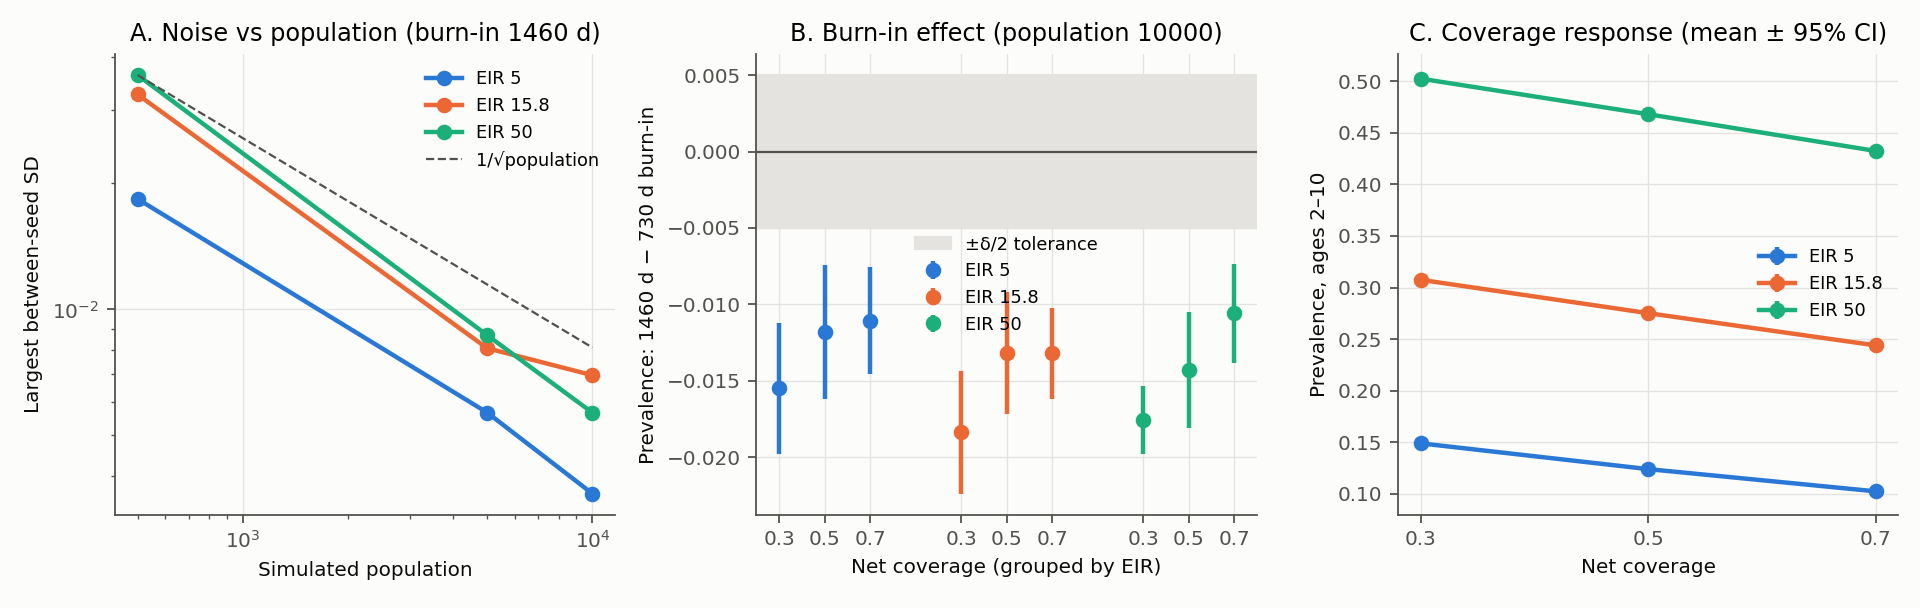
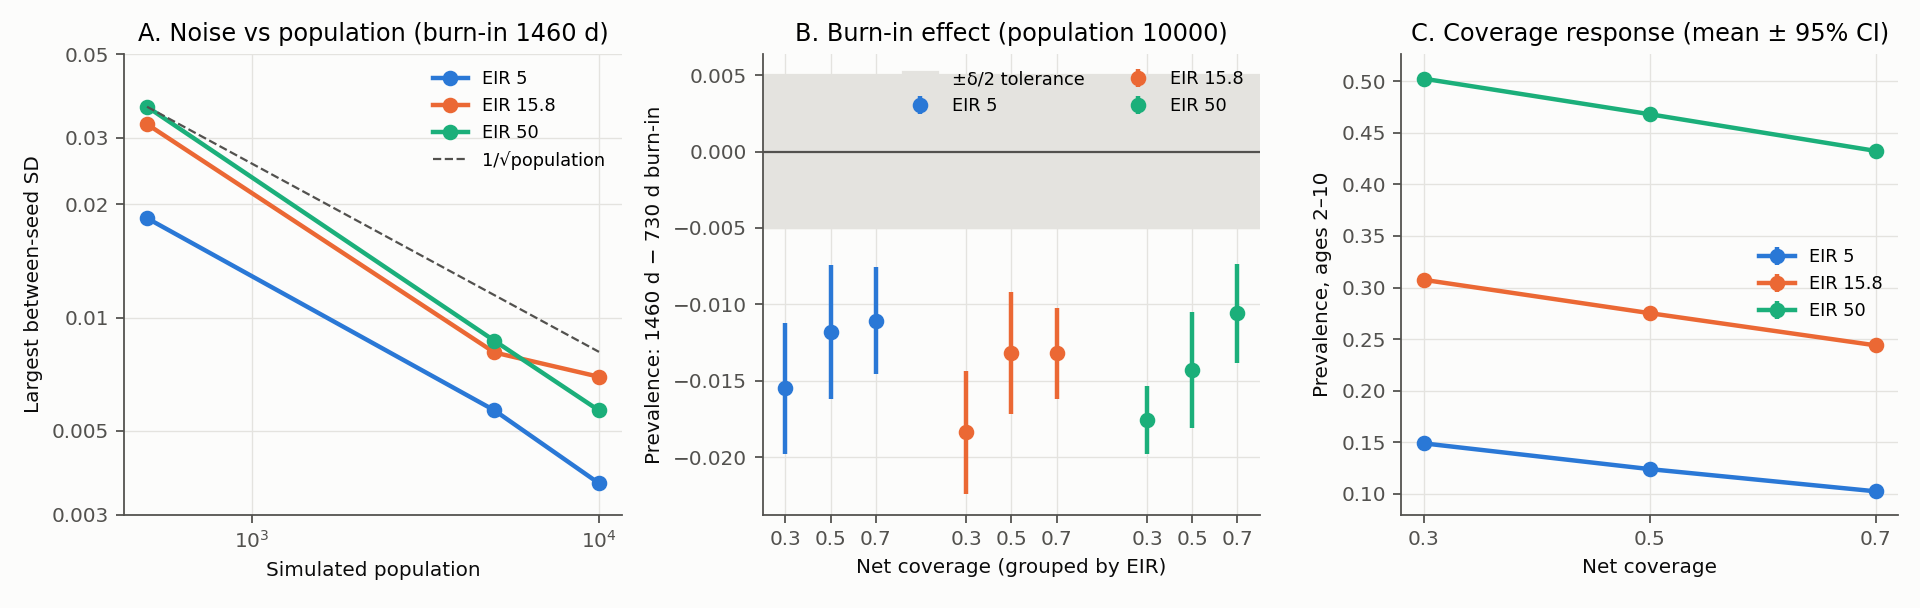
Pilot figure: readable log axis and legend placement; M2 status

diff --git a/pilot_analysis.py b/pilot_analysis.py
@@ -148,6 +148,9 @@ def figure(data, sds, candidates, chosen, path):
     ax.plot(pops, ref, "--", color=muted, lw=1, label="1/√population")
     ax.set(xscale="log", yscale="log", xlabel="Simulated population",
            ylabel="Largest between-seed SD", title=f"A. Noise vs population (burn-in {burn} d)")
+    ticks = [.003, .005, .01, .02, .03, .05]
+    ax.set_yticks(ticks, [f"{t:g}" for t in ticks])
+    ax.minorticks_off()
     ax.legend(frameon=False, fontsize=8)
 
     ax = axs[1]
@@ -165,7 +168,7 @@ def figure(data, sds, candidates, chosen, path):
     ax.set(xlabel="Net coverage (grouped by EIR)",
            ylabel=f"Prevalence: {long_} d − {short} d burn-in",
            title=f"B. Burn-in effect (population {chosen['population']})")
-    ax.legend(frameon=False, fontsize=8)
+    ax.legend(frameon=False, fontsize=8, loc="upper right", ncol=2)
 
     ax = axs[2]
     d = sds[(sds.population == chosen["population"]) & (sds.burn_days == burn)]

diff --git a/docs/PLAN.md b/docs/PLAN.md
@@ -10,7 +10,7 @@ Status key: ⬜ not started · 🟨 in progress · ✅ done · ⛔ blocked
 | # | Week (starts) | Milestone | Deliverables | Gate: done when | Status |
 |---|---|---|---|---|---|
 | M1 | 1 (16 Nov) | Model identity and design | Version record, scenario manifest, seed plan, fixed net scenario, reproducible R runner | Every run reproducible from the archive. Training, tuning and audit seeds disjoint. Same seed gives identical output. | ✅ 16 Nov |
-| M2 | 2 (23 Nov) | Pilot *(go/no-go)* | Runtime at 500/5000/10000 people. Burn-in 730 days vs 1460. Between-seed SD. Curvature of the coverage response. Normality check of replicate means. | Budget ≤ 100 CPU-hours. Population and burn-in locked. Primary check confirmed (D1). | ⬜ |
+| M2 | 2 (23 Nov) | Pilot *(go/no-go)* | Runtime at 500/5000/10000 people. Burn-in 730 days vs 1460. Between-seed SD. Curvature of the coverage response. Normality check of replicate means. | Budget ≤ 100 CPU-hours. Population and burn-in locked. Primary check confirmed (D1). | 🟨 population 10,000 locked; burn-in follow-up running (D9) |
 | M3 | 3 (30 Nov) | Locked protocol | 16 training and 12 audit EIR settings, 21 λ values, δ = 0.01 (0.005, 0.02 sensitivity), frozen allocation rule, pre-registration note | Protocol committed and tagged `protocol-v1`. Nothing tuned on audit data afterwards. | ⬜ |
 | M4 | 4 (7 Dec) | Working prototype | Modules `design.py`, `gp.py`, `allocate.py`, `decision_audit.py`, `figures.py`. Out-of-domain abstention. Tests. | Tests show a wrong choice fails, a clear choice passes and an extrapolated setting abstains. | ⬜ |
 | M5 | 5–6 (14 Dec) | Training and matched comparisons | 192 initial runs, then ≤ 64 adaptive runs for each method (decision-focused, variance, space-filling, interpolator, direct sampling) | Every method used the same expensive-run budget, logged. | ⬜ |
